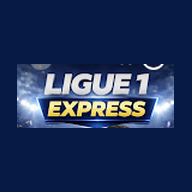
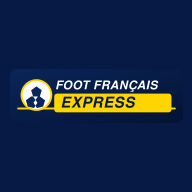
Migration vers Foot Français Express
Rebranding validé : nouvelle identité, logo, métadonnées, PWA, Android et préparation du domaine footfrancaisexpress.fr.

Changed region(s): [[0.0625, 0.3125, 0.9375, 0.6875], [0.6562, 0.3125, 0.6875, 0.3438]]

diff --git a/app/mercato/page.js b/app/mercato/page.js
@@ -7,7 +7,7 @@ import { getStandings, getScorers } from "@/lib/football";
 import { sameEntityName } from "@/lib/content-links";
 
 export const revalidate = 0;
-export const metadata = { title: "Mercato", description: "Le centre mercato Ligue 1 Express : transferts officiels, dossiers avancés, rumeurs et actualités." };
+export const metadata = { title: "Mercato", description: "Le centre mercato Foot Français Express : transferts officiels, dossiers avancés, rumeurs et actualités." };
 const status = { official:["OFFICIEL","✅"], advanced:["DOSSIER AVANCÉ","🔥"], rumour:["RUMEUR","👀"] };
 const type = { transfer:"Transfert", loan:"Prêt", free:"Libre", return:"Retour de prêt" };
 
@@ -30,7 +30,7 @@ export default async function Page({ searchParams }) {
  const playerFor = name => scorers.find(s => sameEntityName(s.name,name));
  const official=transfers.filter(t=>t.transfer_status==="official").length, advanced=transfers.filter(t=>t.transfer_status==="advanced").length, rumours=transfers.filter(t=>t.transfer_status==="rumour").length;
  const filteredTransfers = activeStatus === "all" ? transfers : transfers.filter(t => t.transfer_status === activeStatus);
- return <div className="page-shell listing-page mercato-v6 mercato-v7"><span className="eyebrow">LIGUE 1 EXPRESS · TRANSFERTS</span><h1>Centre Mercato</h1><p className="mercato-lead">Les mouvements qui comptent, séparés des rumeurs. Les clubs et joueurs connus de Ligue 1 Express sont maintenant directement accessibles.</p>
+ return <div className="page-shell listing-page mercato-v6 mercato-v7"><span className="eyebrow">FOOT FRANÇAIS EXPRESS · TRANSFERTS</span><h1>Centre Mercato</h1><p className="mercato-lead">Les mouvements qui comptent, séparés des rumeurs. Les clubs et joueurs connus de Foot Français Express sont maintenant directement accessibles.</p>
   <section className="mercato-dashboard" aria-label="Filtrer les mouvements mercato"><Link href="/mercato?statut=official" className={activeStatus==="official"?"active":""} aria-current={activeStatus==="official"?"true":undefined}><span>✅</span><strong>{official}</strong><small>Transferts officiels</small></Link><Link href="/mercato?statut=advanced" className={activeStatus==="advanced"?"active":""} aria-current={activeStatus==="advanced"?"true":undefined}><span>🔥</span><strong>{advanced}</strong><small>Dossiers avancés</small></Link><Link href="/mercato?statut=rumour" className={activeStatus==="rumour"?"active":""} aria-current={activeStatus==="rumour"?"true":undefined}><span>👀</span><strong>{rumours}</strong><small>Rumeurs suivies</small></Link><Link href="/mercato" className={activeStatus==="all"?"active":""} aria-current={activeStatus==="all"?"true":undefined}><span>⚡</span><strong>{transfers.length}</strong><small>Tous les mouvements</small></Link></section>
   <section className="mercato-board"><div className="section-title"><div><span className="eyebrow section-eyebrow">LIVE MERCATO</span><h2>Tableau des mouvements</h2></div></div>
    {filteredTransfers.length===0?<div className="editorial-empty"><h3>Aucun mouvement dans cette catégorie</h3><p>Choisis un autre filtre ou ajoute un mouvement depuis l’Admin.</p></div>:<div className="transfer-list">{filteredTransfers.map(t=>{const s=status[t.transfer_status]||status.rumour; const from=clubFor(t.from_club); const to=clubFor(t.to_club); const player=playerFor(t.player_name); const published=publicationDate(t); return <article className={`transfer-card ${t.transfer_status}`} key={t.id}><div className="transfer-status"><span>{s[1]}</span><strong>{s[0]}</strong>{published&&<time dateTime={t.occurred_at||t.created_at}>Publié le {published}</time>}</div><div className="transfer-player"><small>{t.position||"JOUEUR"}</small><h3>{player?.playerId ? <Link href={`/joueur/${player.playerId}${player.teamId?`?club=${player.teamId}`:""}`}>{t.player_name}</Link> : t.player_name}</h3>{t.fee&&<b>{t.fee}</b>}</div><div className="transfer-route"><div><span>DE</span>{from ? <Link href={`/club/${from.teamId}`} className="transfer-club-link">{from.logo&&<Image src={from.logo} alt="" width={24} height={24} unoptimized/>}<strong>{t.from_club}</strong></Link> : <strong>{t.from_club||"Libre"}</strong>}</div><i>→</i><div><span>VERS</span>{to ? <Link href={`/club/${to.teamId}`} className="transfer-club-link">{to.logo&&<Image src={to.logo} alt="" width={24} height={24} unoptimized/>}<strong>{t.to_club}</strong></Link> : <strong>{t.to_club||"À définir"}</strong>}</div></div><div className="transfer-meta"><span>{type[t.transfer_type]||"Transfert"}</span>{t.note&&<p>{t.note}</p>}</div></article>})}</div>}

diff --git a/components/MemberAccount.js b/components/MemberAccount.js
@@ -59,5 +59,5 @@ export default function MemberAccount() {
   if (loading && !user) return <div className="member-account-loading">Chargement de ton espace…</div>;
   if (user) return <section className="member-account-card is-connected"><span>✅ COMPTE CONNECTÉ</span><h1>Bienvenue {profile?.nickname || "supporter"}</h1><p>{user.email}</p><div><Link href="/mon-profil-supporter">Ouvrir mon espace</Link><Link href="/mon-club">Mon club</Link><button onClick={logout}>Se déconnecter</button></div>{message && <small>{message}</small>}</section>;
 
-  return <section className="member-auth-layout"><div className="member-auth-intro"><span>⚽ LIGUE 1 EXPRESS</span><h1>Ton football, partout avec toi.</h1><p>Connecte-toi pour retrouver ton club, tes pronostics, tes points, tes badges et tes alertes sur tous tes appareils.</p><ul><li>✓ Le reste du site reste accessible sans compte</li><li>✓ Tes anciens pronostics sont conservés</li><li>✓ Aucun mot de passe n’est stocké par le site</li></ul></div><div className="member-auth-card"><div className="member-auth-tabs"><button className={mode === "login" ? "active" : ""} onClick={() => { setMode("login"); setMessage(""); }}>Connexion</button><button className={mode === "register" ? "active" : ""} onClick={() => { setMode("register"); setMessage(""); }}>Inscription</button></div><h2>{mode === "register" ? "Créer mon compte" : mode === "forgot" ? "Mot de passe oublié" : mode === "new-password" ? "Nouveau mot de passe" : "Se connecter"}</h2><form onSubmit={submit}>{mode === "register" && <label>Pseudo<input value={nickname} onChange={(e) => setNickname(e.target.value)} minLength={3} maxLength={20} required /></label>}{mode !== "new-password" && <label>Adresse e-mail<input type="email" value={email} onChange={(e) => setEmail(e.target.value)} required /></label>}{mode !== "forgot" && <label>Mot de passe<input type="password" value={password} onChange={(e) => setPassword(e.target.value)} minLength={6} required /></label>}<button disabled={loading}>{loading ? "Un instant…" : mode === "register" ? "Créer mon compte" : mode === "forgot" ? "Envoyer le lien" : mode === "new-password" ? "Enregistrer" : "Se connecter"}</button></form>{mode === "login" && <button className="member-forgot" onClick={() => setMode("forgot")}>Mot de passe oublié ?</button>}{mode === "forgot" && <button className="member-forgot" onClick={() => setMode("login")}>Retour à la connexion</button>}{message && <p className="member-auth-message">{message}</p>}</div></section>;
+  return <section className="member-auth-layout"><div className="member-auth-intro"><span>⚽ FOOT FRANÇAIS EXPRESS</span><h1>Ton football, partout avec toi.</h1><p>Connecte-toi pour retrouver ton club, tes pronostics, tes points, tes badges et tes alertes sur tous tes appareils.</p><ul><li>✓ Le reste du site reste accessible sans compte</li><li>✓ Tes anciens pronostics sont conservés</li><li>✓ Aucun mot de passe n’est stocké par le site</li></ul></div><div className="member-auth-card"><div className="member-auth-tabs"><button className={mode === "login" ? "active" : ""} onClick={() => { setMode("login"); setMessage(""); }}>Connexion</button><button className={mode === "register" ? "active" : ""} onClick={() => { setMode("register"); setMessage(""); }}>Inscription</button></div><h2>{mode === "register" ? "Créer mon compte" : mode === "forgot" ? "Mot de passe oublié" : mode === "new-password" ? "Nouveau mot de passe" : "Se connecter"}</h2><form onSubmit={submit}>{mode === "register" && <label>Pseudo<input value={nickname} onChange={(e) => setNickname(e.target.value)} minLength={3} maxLength={20} required /></label>}{mode !== "new-password" && <label>Adresse e-mail<input type="email" value={email} onChange={(e) => setEmail(e.target.value)} required /></label>}{mode !== "forgot" && <label>Mot de passe<input type="password" value={password} onChange={(e) => setPassword(e.target.value)} minLength={6} required /></label>}<button disabled={loading}>{loading ? "Un instant…" : mode === "register" ? "Créer mon compte" : mode === "forgot" ? "Envoyer le lien" : mode === "new-password" ? "Enregistrer" : "Se connecter"}</button></form>{mode === "login" && <button className="member-forgot" onClick={() => setMode("forgot")}>Mot de passe oublié ?</button>}{mode === "forgot" && <button className="member-forgot" onClick={() => setMode("login")}>Retour à la connexion</button>}{message && <p className="member-auth-message">{message}</p>}</div></section>;
 }

diff --git a/lib/newsletter-server.js b/lib/newsletter-server.js
@@ -7,7 +7,7 @@ function escapeHtml(value = "") {
 function siteUrl() {
   if (process.env.NEXT_PUBLIC_SITE_URL) return process.env.NEXT_PUBLIC_SITE_URL.replace(/\/$/, "");
   if (process.env.VERCEL_PROJECT_PRODUCTION_URL) return `https://${process.env.VERCEL_PROJECT_PRODUCTION_URL}`;
-  return "https://ligue1-express.vercel.app";
+  return "https://footfrancaisexpress.fr";
 }
 
 export function serverSupabase(accessToken) {
@@ -44,14 +44,14 @@ export function renderNewsletterHtml({ subject, intro, articles, unsubscribeToke
     const image = article.image_url ? `<img src="${escapeHtml(article.image_url)}" alt="" style="width:100%;max-height:260px;object-fit:cover;border-radius:12px 12px 0 0;display:block">` : "";
     return `<div style="margin:18px 0;border:1px solid #e4e8f0;border-radius:12px;overflow:hidden;background:#fff">${image}<div style="padding:18px"><div style="font-size:11px;font-weight:800;color:#8a7600;letter-spacing:.06em">${escapeHtml(article.category)}</div><h2 style="margin:6px 0 8px;font-size:20px;line-height:1.2;color:#081b44">${escapeHtml(article.title)}</h2><p style="margin:0 0 14px;color:#606b7c;line-height:1.55;font-size:14px">${escapeHtml(article.excerpt || "")}</p><a href="${link}" style="display:inline-block;background:#ffd719;color:#081b44;text-decoration:none;font-weight:900;padding:10px 14px;border-radius:8px">Lire l'article</a></div></div>`;
   }).join("");
-  const unsubscribe = unsubscribeToken ? `<p style="margin:24px 0 0;font-size:11px;color:#9aa3b2;text-align:center">Tu reçois cet e-mail car tu es inscrit à Ligue 1 Express. <a href="${base}/api/newsletter/unsubscribe?token=${encodeURIComponent(unsubscribeToken)}" style="color:#6f7785">Se désinscrire</a>.</p>` : "";
+  const unsubscribe = unsubscribeToken ? `<p style="margin:24px 0 0;font-size:11px;color:#9aa3b2;text-align:center">Tu reçois cet e-mail car tu es inscrit à Foot Français Express. <a href="${base}/api/newsletter/unsubscribe?token=${encodeURIComponent(unsubscribeToken)}" style="color:#6f7785">Se désinscrire</a>.</p>` : "";
   return `<!doctype html><html><body style="margin:0;background:#f4f6fa;font-family:Arial,sans-serif;color:#081b44"><div style="max-width:640px;margin:0 auto;padding:28px 16px"><div style="background:#081b44;border-radius:16px;padding:20px 22px;color:#fff"><div style="font-size:22px;font-weight:900">LIGUE 1 <span style="color:#ffd719">EXPRESS</span></div><div style="margin-top:4px;color:#bdc8dc;font-size:12px">L'actualité du football français</div></div><div style="background:white;margin-top:14px;border-radius:16px;padding:24px"><h1 style="margin:0 0 12px;font-size:28px;line-height:1.15">${escapeHtml(subject)}</h1><p style="margin:0 0 18px;color:#596577;line-height:1.6">${escapeHtml(intro).replace(/\n/g, "<br>")}</p>${articleHtml || '<p style="color:#7b8495">Aucun article sélectionné.</p>'}</div>${unsubscribe}</div></body></html>`;
 }
 
 export async function sendWithResend({ to, subject, html }) {
   const apiKey = process.env.RESEND_API_KEY;
   if (!apiKey) throw new Error("RESEND_API_KEY absente de Vercel.");
-  const from = process.env.NEWSLETTER_FROM_EMAIL || "Ligue 1 Express <onboarding@resend.dev>";
+  const from = process.env.NEWSLETTER_FROM_EMAIL || "Foot Français Express <onboarding@resend.dev>";
   const response = await fetch("https://api.resend.com/emails", {
     method: "POST",
     headers: { Authorization: `Bearer ${apiKey}`, "Content-Type": "application/json" },

diff --git a/components/SocialStudio.js b/components/SocialStudio.js
@@ -77,7 +77,7 @@ export default function SocialStudio({ articles = [], predictions = [], upcoming
     if (type === "resultat") { setHeadline(`${matchName(item)} · ${item.score?.fullTime?.home ?? "-"}-${item.score?.fullTime?.away ?? "-"}`); setNote(item.matchday ? `Journée ${item.matchday}` : "Ligue 1"); }
   }, [type, item?.id]);
 
-  const articleUrl = type === "article" && item?.slug ? `https://ligue1-express.vercel.app/article/${item.slug}` : "https://ligue1-express.vercel.app/";
+  const articleUrl = type === "article" && item?.slug ? `https://footfrancaisexpress.fr/article/${item.slug}` : "https://footfrancaisexpress.fr/";
   const kicker = TYPES[type].kicker;
   const facebookText = `${kicker} ⚽\n\n${headline}${note ? `\n\n${note}` : ""}\n\n👉 ${articleUrl}\n\n#Ligue1 #Ligue1Express`;
   const xText = `${kicker} ⚽\n\n${headline}${note ? `\n${note}` : ""}\n\n${articleUrl}\n\n#Ligue1`;
@@ -180,8 +180,8 @@ export default function SocialStudio({ articles = [], predictions = [], upcoming
 
     ctx.fillStyle="rgba(7,31,79,.88)"; ctx.fillRect(0,1010,W,190);
     ctx.fillStyle="#ffd51f"; ctx.fillRect(78,1040,360,92);
-    ctx.fillStyle="#071f4f"; ctx.font="900 31px Arial"; ctx.fillText("LIGUE 1 EXPRESS",106,1098);
-    ctx.fillStyle="white"; ctx.font="700 23px Arial"; ctx.fillText("ligue1-express.vercel.app",470,1095);
+    ctx.fillStyle="#071f4f"; ctx.font="900 31px Arial"; ctx.fillText("FOOT FRANÇAIS EXPRESS",106,1098);
+    ctx.fillStyle="white"; ctx.font="700 23px Arial"; ctx.fillText("footfrancaisexpress.fr",470,1095);
 
     if (renderToken !== renderTokenRef.current) return;
     visibleCanvas.width = W; visibleCanvas.height = H;
@@ -195,7 +195,7 @@ export default function SocialStudio({ articles = [], predictions = [], upcoming
   async function copy(text,label){ await navigator.clipboard.writeText(text); setStatus(`${label} copié ✅`); }
 
   return <section className="social-studio admin-panel-standalone">
-    <div className="panel-heading"><div><span className="eyebrow">STUDIO SOCIAL V2</span><h2>Créer les posts Ligue 1 Express</h2><p>Actualités, mercato, pronostics, matchs et résultats : prépare le visuel et le texte adapté à chaque réseau.</p></div></div>
+    <div className="panel-heading"><div><span className="eyebrow">STUDIO SOCIAL V2</span><h2>Créer les posts Foot Français Express</h2><p>Actualités, mercato, pronostics, matchs et résultats : prépare le visuel et le texte adapté à chaque réseau.</p></div></div>
     <div className="social-type-picker">{Object.entries(TYPES).map(([key,v])=><button type="button" key={key} className={type===key?"active":""} onClick={()=>setType(key)}>{v.label}</button>)}</div>
     <div className="social-studio-grid">
       <div className="social-studio-controls">

diff --git a/components/MyClubSpace.js b/components/MyClubSpace.js
@@ -88,5 +88,5 @@ export default function MyClubSpace() {
 }
 
 function Picker({ leagues, loading, search, setSearch, selectClub, close }) {
-  return <div className="my-club-modal-backdrop" onMouseDown={e=>{if(e.target===e.currentTarget)close();}}><div className="my-club-modal"><div className="my-club-modal-head"><div><span>★ PERSONNALISE LIGUE 1 EXPRESS</span><h2>Quel club supportes-tu ?</h2><p>Ton choix sera synchronisé avec ton compte.</p></div><button onClick={close}>×</button></div><input className="my-club-search" value={search} onChange={e=>setSearch(e.target.value)} placeholder="Rechercher un club…" autoFocus/><div className="my-club-picker-list">{loading ? <div className="my-club-picker-empty">Chargement des clubs…</div> : leagues.map(l=><section key={l.slug}><h3>{l.name}</h3><div className="my-club-picker-grid">{l.clubs.map(c=><button key={`${l.slug}-${c.teamId||c.team}`} onClick={()=>selectClub(c)}><span>{c.logo?<img src={c.logo} alt=""/>:"⚽"}</span><div><strong>{c.shortName||c.team}</strong><small>{c.rank?`${c.rank}e · ${c.points} pts`:l.name}</small></div><b>→</b></button>)}</div></section>)}</div></div></div>;
+  return <div className="my-club-modal-backdrop" onMouseDown={e=>{if(e.target===e.currentTarget)close();}}><div className="my-club-modal"><div className="my-club-modal-head"><div><span>★ PERSONNALISE FOOT FRANÇAIS EXPRESS</span><h2>Quel club supportes-tu ?</h2><p>Ton choix sera synchronisé avec ton compte.</p></div><button onClick={close}>×</button></div><input className="my-club-search" value={search} onChange={e=>setSearch(e.target.value)} placeholder="Rechercher un club…" autoFocus/><div className="my-club-picker-list">{loading ? <div className="my-club-picker-empty">Chargement des clubs…</div> : leagues.map(l=><section key={l.slug}><h3>{l.name}</h3><div className="my-club-picker-grid">{l.clubs.map(c=><button key={`${l.slug}-${c.teamId||c.team}`} onClick={()=>selectClub(c)}><span>{c.logo?<img src={c.logo} alt=""/>:"⚽"}</span><div><strong>{c.shortName||c.team}</strong><small>{c.rank?`${c.rank}e · ${c.points} pts`:l.name}</small></div><b>→</b></button>)}</div></section>)}</div></div></div>;
 }

diff --git a/data/content.js b/data/content.js
@@ -6,7 +6,7 @@ export const articles = [
     excerpt: "Les faits marquants, les joueurs qui ont brillé et les tendances à surveiller en Ligue 1.",
     body: [
       "Bienvenue dans le Débrief Express. Cette première version du site utilise du contenu de démonstration afin de valider le design et la navigation.",
-      "L'objectif de Ligue 1 Express est simple : aller droit à l'essentiel, sans perdre le contexte. Les articles pourront accompagner les vidéos TikTok avec des analyses plus détaillées, des statistiques et les informations à retenir.",
+      "L'objectif de Foot Français Express est simple : aller droit à l'essentiel, sans perdre le contexte. Les articles pourront accompagner les vidéos TikTok avec des analyses plus détaillées, des statistiques et les informations à retenir.",
       "La prochaine étape sera de connecter les résultats et le classement à une source de données football, puis d'ajouter une véritable interface d'administration."
     ],
     accent: "hero"
@@ -17,7 +17,7 @@ export const articles = [
     title: "Le joueur à suivre ce week-end",
     excerpt: "Forme, rôle tactique et statistiques : pourquoi il peut faire la différence.",
     body: [
-      "Un format court pensé pour compléter les vidéos Ligue 1 Express.",
+      "Un format court pensé pour compléter les vidéos Foot Français Express.",
       "Ici pourront apparaître les statistiques clés du joueur, son importance dans le système de son équipe et les duels à surveiller."
     ],
     accent: "blue"
@@ -39,7 +39,7 @@ export const articles = [
     title: "Analyse : pourquoi ce système pose autant de problèmes",
     excerpt: "Une lecture simple du plan de jeu, avec les clés tactiques à retenir.",
     body: [
-      "Ligue 1 Express pourra proposer des analyses accessibles, avec des schémas et des séquences vidéo.",
+      "Foot Français Express pourra proposer des analyses accessibles, avec des schémas et des séquences vidéo.",
       "Le but n'est pas de rendre le football compliqué, mais de montrer rapidement ce qui fait basculer un match."
     ],
     accent: "yellow"

diff --git a/app/prono/page.js b/app/prono/page.js
@@ -5,7 +5,7 @@ import { getAllSupporterPredictionStats } from "@/lib/supporter-predictions";
 import SupporterProfile from "@/components/SupporterProfile";
 
 export const revalidate = 0;
-export const metadata = { title: "Pronostics", description: "Les pronostics football de la rédaction Ligue 1 Express, expliqués clairement et suivis après chaque match." };
+export const metadata = { title: "Pronostics", description: "Les pronostics football de la rédaction Foot Français Express, expliqués clairement et suivis après chaque match." };
 
 function formatDate(value) { if (!value) return "Date à confirmer"; return new Intl.DateTimeFormat("fr-FR", { weekday:"short", day:"2-digit", month:"short", hour:"2-digit", minute:"2-digit", timeZone:"Europe/Paris" }).format(new Date(value)); }
 function verdictLabel(v) { return v === "won" ? "✅ GAGNÉ" : v === "lost" ? "❌ PERDU" : "⏳ EN ATTENTE"; }
@@ -65,7 +65,7 @@ export default async function PronoPage() {
       </div>
     </section>
     <section className="editorial-supporters-summary">
-      <div className="duel-summary-title"><span>⚔ V8.11 · LE DUEL</span><h2>Rédaction contre Supporters</h2><p>Qui lit le mieux les matchs de Ligue 1 Express ?</p></div>
+      <div className="duel-summary-title"><span>⚔ V8.11 · LE DUEL</span><h2>Rédaction contre Supporters</h2><p>Qui lit le mieux les matchs de Foot Français Express ?</p></div>
       <div className="duel-summary-score"><div><span>✍ Rédaction</span><strong>{editorialDuelRate}%</strong><small>{editorialDuelWins} bon{editorialDuelWins > 1 ? "s" : ""} pronostic{editorialDuelWins > 1 ? "s" : ""}</small></div><i>VS</i><div><span>👥 Supporters</span><strong>{supporterDuelRate}%</strong><small>{supporterDuelWins} bon{supporterDuelWins > 1 ? "s" : ""} pronostic{supporterDuelWins > 1 ? "s" : ""}</small></div></div>
       <div className="duel-summary-meta"><b>{evaluatedDuels.length}</b><span>duel{evaluatedDuels.length > 1 ? "s" : ""} terminé{evaluatedDuels.length > 1 ? "s" : ""}</span><b>{agreements}</b><span>avis identique{agreements > 1 ? "s" : ""}</span></div>
     </section>

diff --git a/app/joueur/[id]/page.js b/app/joueur/[id]/page.js
@@ -87,6 +87,6 @@ export default async function PlayerPage({ params, searchParams }) {
       <section id="mercato" className="club-v7-panel"><div className="club-section-title"><span>🔁 MERCATO</span><strong>Historique suivi</strong></div>{playerTransfers.length ? <div className="player-transfer-list">{playerTransfers.map(t=><article key={t.id}><span>{t.transfer_status === "official" ? "✅ OFFICIEL" : t.transfer_status === "advanced" ? "🔥 AVANCÉ" : "👀 RUMEUR"}</span><strong>{t.from_club || "Libre"} → {t.to_club || "À définir"}</strong>{t.fee && <b>{t.fee}</b>}{t.note && <p>{t.note}</p>}</article>)}</div> : <p className="club-empty">Aucun mouvement mercato associé à ce joueur.</p>}<Link className="club-panel-link" href="/mercato">Voir le Centre Mercato →</Link></section>
       <section id="actus" className="club-v7-panel"><div className="club-section-title"><span>📰 ACTUALITÉS</span><strong>{relatedArticles.length ? "Articles liés" : "À venir"}</strong></div>{relatedArticles.length ? <div className="club-article-mini-list">{relatedArticles.map(a=><Link href={`/article/${a.slug}`} key={a.slug}><span>{a.category}</span><strong>{a.title}</strong><small>Lire l’article →</small></Link>)}</div> : <p className="club-empty">Aucun article ne mentionne encore directement ce joueur.</p>}</section>
     </div>
-    <div className="player-note">Les données sportives proviennent de football-data.org. Les portraits sont enrichis via TheSportsDB lorsqu’ils sont disponibles. Les contenus associés proviennent de Ligue 1 Express.</div>
+    <div className="player-note">Les données sportives proviennent de football-data.org. Les portraits sont enrichis via TheSportsDB lorsqu’ils sont disponibles. Les contenus associés proviennent de Foot Français Express.</div>
   </div>;
 }

diff --git a/components/MyClubHome.js b/components/MyClubHome.js
@@ -105,7 +105,7 @@ export default function MyClubHome() {
 
     {open && <div className="my-club-modal-backdrop" onMouseDown={(e) => { if (e.target === e.currentTarget) setOpen(false); }}>
       <div className="my-club-modal" role="dialog" aria-modal="true" aria-labelledby="my-club-title">
-        <div className="my-club-modal-head"><div><span>★ PERSONNALISE LIGUE 1 EXPRESS</span><h2 id="my-club-title">Quel club supportes-tu ?</h2><p>Ton choix reste uniquement enregistré dans ton navigateur.</p></div><button type="button" aria-label="Fermer" onClick={() => setOpen(false)}>×</button></div>
+        <div className="my-club-modal-head"><div><span>★ PERSONNALISE FOOT FRANÇAIS EXPRESS</span><h2 id="my-club-title">Quel club supportes-tu ?</h2><p>Ton choix reste uniquement enregistré dans ton navigateur.</p></div><button type="button" aria-label="Fermer" onClick={() => setOpen(false)}>×</button></div>
         <input className="my-club-search" value={search} onChange={(e) => setSearch(e.target.value)} placeholder="Rechercher un club…" autoFocus />
         <div className="my-club-picker-list">
           {loading ? <div className="my-club-picker-empty">Chargement des clubs…</div> : filteredLeagues.length ? filteredLeagues.map((league) => <section key={league.slug}><h3>{league.name}</h3><div className="my-club-picker-grid">{league.clubs.map((club) => <button type="button" key={`${league.slug}-${club.teamId || club.team}`} onClick={() => selectClub(club)}><span>{club.logo ? <img src={club.logo} alt="" /> : "⚽"}</span><div><strong>{club.shortName || club.team}</strong><small>{club.rank ? `${club.rank}e · ${club.points} pts` : league.name}</small></div><b>→</b></button>)}</div></section>) : <div className="my-club-picker-empty">Aucun club trouvé.</div>}

diff --git a/app/admin/page.js b/app/admin/page.js
@@ -669,7 +669,7 @@ export default function AdminPage() {
   if (!configured) {
     return (
       <div className="page-shell admin-page">
-        <span className="eyebrow">LIGUE 1 EXPRESS · V3</span>
+        <span className="eyebrow">FOOT FRANÇAIS EXPRESS · V3</span>
         <h1>Administration</h1>
         <div className="setup-box">
           <h2>Connexion Supabase requise</h2>
@@ -706,7 +706,7 @@ export default function AdminPage() {
     <div className="page-shell admin-page">
       <div className="admin-title-row">
         <div>
-          <span className="eyebrow">BACK-OFFICE LIGUE 1 EXPRESS</span>
+          <span className="eyebrow">BACK-OFFICE FOOT FRANÇAIS EXPRESS</span>
           <h1>Administration</h1>
           <p className="admin-dashboard-subtitle">Choisis ce que tu veux gérer.</p>
         </div>
@@ -1120,7 +1120,7 @@ export default function AdminPage() {
 
       {adminSection === "newsletter" && <section className="predictions-admin-panel admin-panel-standalone">
         <div className="panel-heading scorers-admin-heading">
-          <div><span className="eyebrow">NEWSLETTER · V5.8</span><h2>Newsletter Ligue 1 Express</h2><p>Prépare, teste et envoie une édition aux abonnés actifs.</p></div>
+          <div><span className="eyebrow">NEWSLETTER · V5.8</span><h2>Newsletter Foot Français Express</h2><p>Prépare, teste et envoie une édition aux abonnés actifs.</p></div>
         </div>
         {newsletterMessage && <div className="admin-message-box">{newsletterMessage}</div>}
         <NewsletterAdmin session={session} articles={articles} subscribers={newsletterSubscribers} onRefreshSubscribers={loadNewsletterSubscribers} onRemoveSubscriber={removeNewsletterSubscriber} />

diff --git a/app/layout.js b/app/layout.js
@@ -10,24 +10,24 @@ const siteUrl = getSiteUrl();
 export const metadata = {
   metadataBase: new URL(siteUrl),
   title: {
-    default: "Ligue 1 Express — Le football français en un clin d'œil",
-    template: "%s | Ligue 1 Express"
+    default: "Foot Français Express — Sans perdre une minute",
+    template: "%s | Foot Français Express"
   },
   description: "Actualités, mercato, pronostics, résultats, classements et statistiques du football français : Ligue 1, Ligue 2 et Ligue 3.",
-  applicationName: "Ligue 1 Express",
+  applicationName: "Foot Français Express",
   category: "sports",
   openGraph: {
     type: "website",
     locale: "fr_FR",
-    siteName: "Ligue 1 Express",
-    title: "Ligue 1 Express",
-    description: "Le football français en un clin d'œil : actualités, championnats, pronostics, résultats et statistiques.",
-    images: [{ url: "/logo-ligue1-express.png", width: 131, height: 54, alt: "Ligue 1 Express" }]
+    siteName: "Foot Français Express",
+    title: "Foot Français Express",
+    description: "L'actualité du football français, sans perdre une minute : championnats, mercato, pronostics, résultats et statistiques.",
+    images: [{ url: "/logo-foot-francais-express.svg", width: 360, height: 112, alt: "Foot Français Express" }]
   },
   twitter: {
     card: "summary_large_image",
-    title: "Ligue 1 Express",
-    description: "Le football français en un clin d'œil."
+    title: "Foot Français Express",
+    description: "L'actualité du football français, sans perdre une minute."
   },
   icons: {
     icon: "/icon-192.png",

diff --git a/components/NewsletterAdmin.js b/components/NewsletterAdmin.js
@@ -10,7 +10,7 @@ function formatDate(value) {
 
 export default function NewsletterAdmin({ session, articles = [], subscribers = [], onRefreshSubscribers, onRemoveSubscriber }) {
   const publishedArticles = useMemo(() => articles.filter((article) => article.status === "published"), [articles]);
-  const [subject, setSubject] = useState("L'essentiel Ligue 1 Express");
+  const [subject, setSubject] = useState("L'essentiel Foot Français Express");
   const [intro, setIntro] = useState("Retrouve les dernières actualités, analyses et infos mercato de la rédaction.");
   const [selectedArticleIds, setSelectedArticleIds] = useState([]);
   const [testEmail, setTestEmail] = useState(session?.user?.email || "");
@@ -95,7 +95,7 @@ export default function NewsletterAdmin({ session, articles = [], subscribers = 
             </div>)}
             {!selectedArticleIds.length && <em>Sélectionne un ou plusieurs articles pour voir l'aperçu.</em>}
           </div>
-          <small className="newsletter-preview-footer">Tu reçois cet e-mail car tu es inscrit à la newsletter Ligue 1 Express. Un lien de désinscription sera ajouté automatiquement.</small>
+          <small className="newsletter-preview-footer">Tu reçois cet e-mail car tu es inscrit à la newsletter Foot Français Express. Un lien de désinscription sera ajouté automatiquement.</small>
         </div>
       </div>
     </div>
